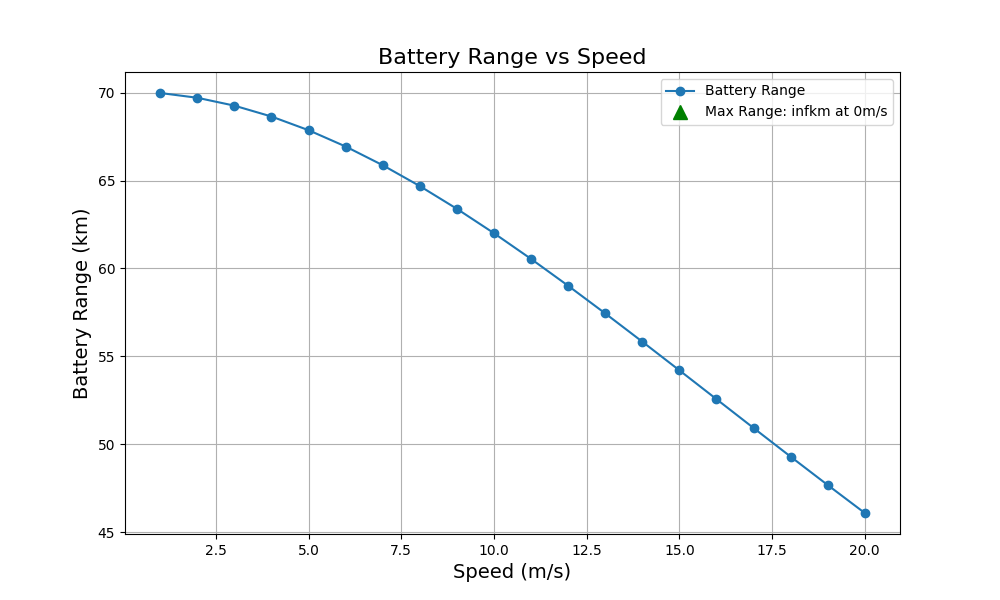
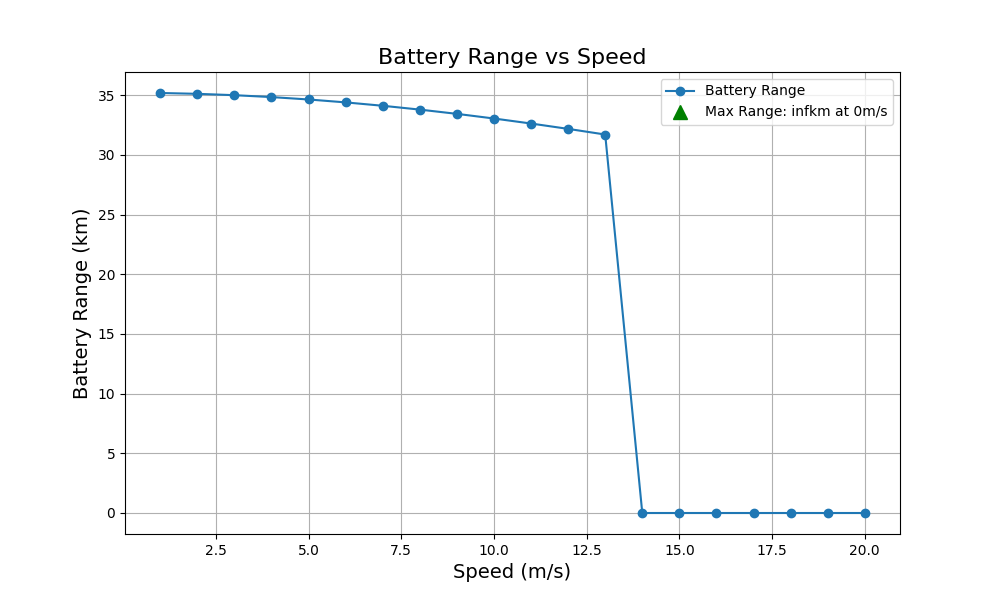
more updates

diff --git a/index.html b/index.html
@@ -3,7 +3,6 @@
 <head>
     <meta charset="UTF-8">
     <title>Electric Ski Bike Simulator</title>
-    <!-- Include Tailwind CSS from CDN -->
     <link href="https://cdn.jsdelivr.net/npm/tailwindcss@2.2.19/dist/tailwind.min.css" rel="stylesheet">
 </head>
 <body class="bg-gray-100 h-screen flex justify-center items-center">

diff --git a/bike.py b/bike.py
@@ -71,7 +71,6 @@ class BikeSimulator:
         return motor_force, total_force
 
     def simulate(self, mode, speeds):
-        pedaling_power = 0
         motor_efficiency = 0.8
         electrical_power = 0
         recovered_energy_watt_hours = 0
@@ -82,9 +81,9 @@ class BikeSimulator:
             drag_force = 0
             battery_range = 0
             print("************************************************************")
-            print("Gradient: " + str(self.gradient) + "%")
+            print("Gradient: " + str(self.gradient) + " %")
             if self.speed == speed:
-                self.messages.append("Gradient: " + str(self.gradient) + "%")
+                self.messages.append("Gradient: " + str(self.gradient) + " %")
             normal_force = self.mass * self.g * cos(self.angle)
             max_static_friction = self.mu_s_wheel * normal_force
             ski_friction = self.mu_k_skis * normal_force
@@ -100,7 +99,7 @@ class BikeSimulator:
             max_battery_force = (max_torque * self.gear_ratio) / self.wheel_radius
 
             if speed > 0:
-                pedaling_force = (pedaling_power / speed) * self.gear_ratio
+                pedaling_force = (self.pedaling_power / speed) * self.gear_ratio
             else:
                 pedaling_force = 0
 
@@ -127,7 +126,7 @@ class BikeSimulator:
                 mechanical_power = motor_torque * angular_speed_motor
                 electrical_power = mechanical_power / motor_efficiency
 
-                total_power = pedaling_power + mechanical_power
+                total_power = self.pedaling_power + mechanical_power
 
             if force < 0:
                 regenerative_braking_efficiency = 0.8
@@ -146,11 +145,11 @@ class BikeSimulator:
             else:
                 battery_range = float('inf')
             if self.speed == speed:
-                self.log_stats(force, motor_torque, motor_force, total_force, electrical_power, rpm, pedaling_power,
+                self.log_stats(force, motor_torque, motor_force, total_force, electrical_power, rpm, self.pedaling_power,
                                total_power,speed)
                 self.log_battery_stats(operation_time, battery_range, recovered_energy_watt_hours)
                 self.print_stats(normal_force, max_static_friction, drag_force, rolling_resistance_force, force,
-                                 motor_torque, motor_force, total_force, electrical_power, rpm, total_power, pedaling_power,speed)
+                                 motor_torque, motor_force, total_force, electrical_power, rpm, total_power, self.pedaling_power,speed)
                 self.print_battery_stats(operation_time, battery_range, recovered_energy_watt_hours)
 
             self.motor_powers.append(electrical_power)
@@ -163,53 +162,53 @@ class BikeSimulator:
 
     def print_stats(self, normal_force, max_static_friction, drag_force, rolling_resistance_force, force, torque,
                     motor_force, total_force, electrical_power, motor_rpm, total_power, pedaling_power,speed):
-        print("constant speed to maintain : " + str(speed) + "m/s")
-        print("The normal force is: " + str(normal_force) + "N")
-        print("The static friction force is: " + str(max_static_friction) + "N")
-        print("The drag force is: " + str(drag_force) + "N")
-        print("The rolling resistance force is: " + str(rolling_resistance_force) + "N")
-        print("The force is: " + str(force) + "N")
-        print("The torque is: " + str(torque) + "Nm")
-        print("The actual motor force is : " + str(motor_force) + "N")
-        print("The pedalling + motor force is :" + str(total_force) + "N")
-        print("The pedaling power is: " + str(pedaling_power) + "W")
-        print("The electrical motor power is: " + str(electrical_power) + "W")
-        print("The motor rpm  is: " + str(motor_rpm) + "rpm")
-        print("Pedaling + motor power : " + str(total_power) + "W")
+        print("constant speed to maintain : " + str(speed) + " m/s")
+        print("The normal force is: " + str(normal_force) + " N")
+        print("The static friction force is: " + str(max_static_friction) + " N")
+        print("The drag force is: " + str(drag_force) + " N")
+        print("The rolling resistance force is: " + str(rolling_resistance_force) + " N")
+        print("The force is: " + str(force) + " N")
+        print("The torque is: " + str(torque) + " Nm")
+        print("The actual motor force is : " + str(motor_force) + " N")
+        print("The pedalling + motor force is :" + str(total_force) + " N")
+        print("The pedaling power is: " + str(pedaling_power) + " W")
+        print("The electrical motor power is: " + str(electrical_power) + " W")
+        print("The motor rpm  is: " + str(motor_rpm) + " rpm")
+        print("Pedaling + motor power : " + str(total_power) + " W")
 
     def log_stats(self, force, torque, motor_force, total_force, electric_power, motor_rpm, pedaling_power,
                   total_power, speed):
-        self.messages.append("constant speed to maintain : " + str(speed) + "m/s")
-        self.messages.append("The force required to continue motion is: " + str(force) + "N")
-        # self.messages.append("The torque is: " + str(torque) + "Nm")
-        self.messages.append("The actual motor force is: " + str(motor_force) + "N")
-        self.messages.append("The pedalling + motor force is: " + str(total_force) + "N")
-        self.messages.append("The pedaling power is: " + str(pedaling_power) + "W")
-        self.messages.append("The electrical motor power is: " + str(electric_power) + "W")
-        self.messages.append("The motor rpm  is: " + str(motor_rpm) + "rpm")
-        # self.messages.append("Pedaling + motor power : " + str(total_power) + "W")
+        self.messages.append("constant speed to maintain : " + str(speed) + " m/s")
+        self.messages.append("The force required to continue motion is: " + str(force) + " N")
+        self.messages.append("The torque is: " + str(torque) + "Nm")
+        self.messages.append("The actual motor force is: " + str(motor_force) + " N")
+        self.messages.append("The pedalling + motor force is: " + str(total_force) + " N")
+        self.messages.append("The pedaling power is: " + str(pedaling_power) + " W")
+        self.messages.append("The electrical motor power is: " + str(electric_power) + " W")
+        self.messages.append("The motor rpm  is: " + str(motor_rpm) + " rpm")
+        self.messages.append("Pedaling + motor power : " + str(total_power) + "W")
 
     def print_initial_stats(self, max_static_friction, force, torque, motor_force):
-        print("Maximum static friction: " + str(max_static_friction) + "N")
-        print("Force required to set bike in motion: " + str(force) + "N")
-        print("Torque required to set bike in motion: " + str(torque) + "Nm")
-        print("The motor force is: " + str(motor_force) + "N")
+        print("Maximum static friction: " + str(max_static_friction) + " N")
+        print("Force required to set bike in motion: " + str(force) + " N")
+        print("Torque required to set bike in motion: " + str(torque) + " Nm")
+        print("The motor force is: " + str(motor_force) + " N")
 
     def log_initial_stats(self, max_static_friction, force, torque, motor_force_):
-        self.messages.append("Maximum static friction: " + str(max_static_friction) + "N")
-        self.messages.append("Force required to set bike in motion: " + str(force) + "N")
-        #self.messages.append("Torque required to set bike in motion: " + str(torque) + "Nm")
-        self.messages.append("The motor force is: " + str(motor_force_) + "N")
+        self.messages.append("Maximum static friction: " + str(max_static_friction) + " N")
+        self.messages.append("Force required to set bike in motion: " + str(force) + " N")
+        self.messages.append("Torque required to set bike in motion: " + str(torque) + "Nm")
+        self.messages.append("The motor force is: " + str(motor_force_) + " N")
 
     def print_battery_stats(self, operation_time, battery_range, recovered_energy_watt_hours):
-        print("The operational time is: " + str(operation_time) + "hours")
-        print("The battery range is: " + str(battery_range) + "km")
-        print("The recovered energy is: " + str(recovered_energy_watt_hours) + "Wh")
+        print("The operational time is: " + str(operation_time) + " hours")
+        print("The battery range is: " + str(battery_range) + " km")
+        print("The recovered energy is: " + str(recovered_energy_watt_hours) + " Wh")
 
     def log_battery_stats(self, operation_time, battery_range, recovered_energy_watt_hours):
-        self.messages.append("The operational time is: " + str(operation_time) + "hours")
-        self.messages.append("The battery range is: " + str(battery_range) + "km")
-        self.messages.append("The recovered energy is: " + str(recovered_energy_watt_hours) + "Wh")
+        self.messages.append("The operational time is: " + str(operation_time) + " hours")
+        self.messages.append("The battery range is: " + str(battery_range) + " km")
+        self.messages.append("The recovered energy is: " + str(recovered_energy_watt_hours) + " Wh")
 
     def plot_motor_power(self, speeds, motor_powers):
         plt.figure(figsize=(10, 6))

diff --git a/app.py b/app.py
@@ -114,17 +114,17 @@ def determine_terrain_friction(terrain):
     if terrain == 'snow':
         mu_s_wheel = 0.2
         mu_k_skis = 0.05
-        mu_k_wheel = 0.3
+        mu_k_wheel = 0.1
         rolling_resistance = 0.05
     elif terrain == 'ice':
         mu_s_wheel = 0.1
         mu_k_skis = 0.03
-        mu_k_wheel = 0.2
+        mu_k_wheel = 0.05
         rolling_resistance = 0.09
     else:  # default values or you can add more terrains
         mu_s_wheel = 0.2
         mu_k_skis = 0.03
-        mu_k_wheel = 0.25
+        mu_k_wheel = 0.1
         rolling_resistance = 0.05
     return mu_s_wheel, mu_k_skis, mu_k_wheel, rolling_resistance
 
